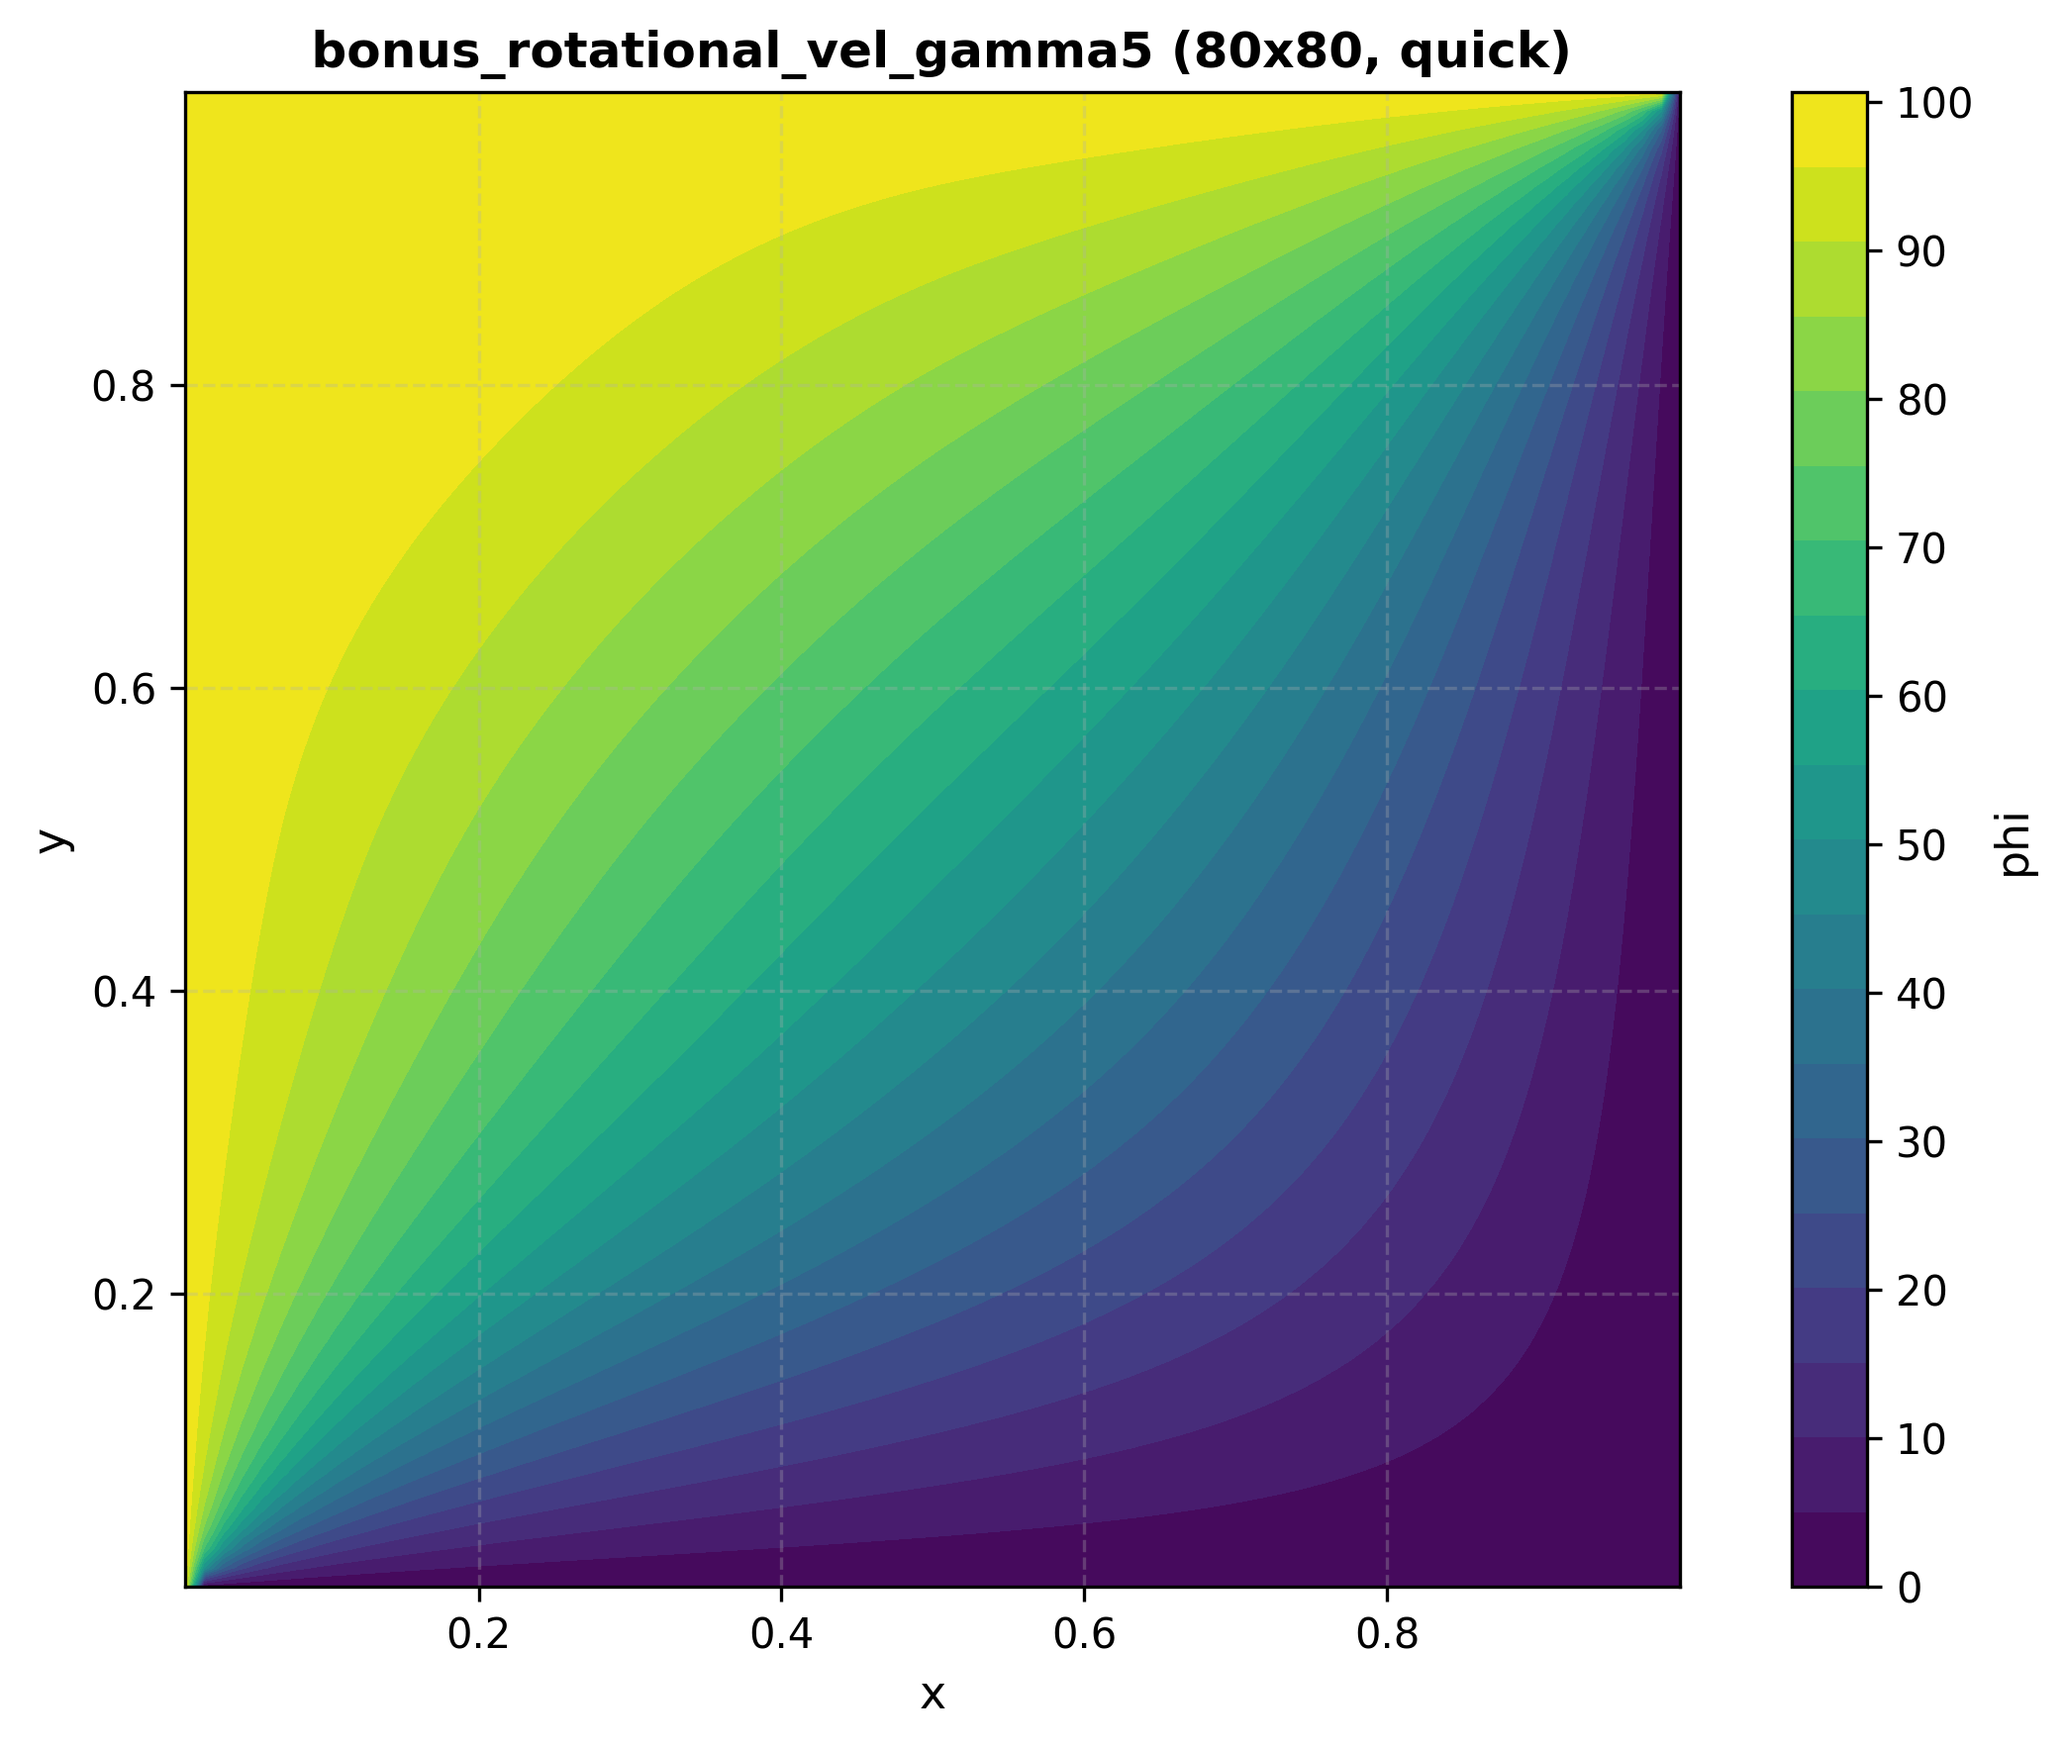
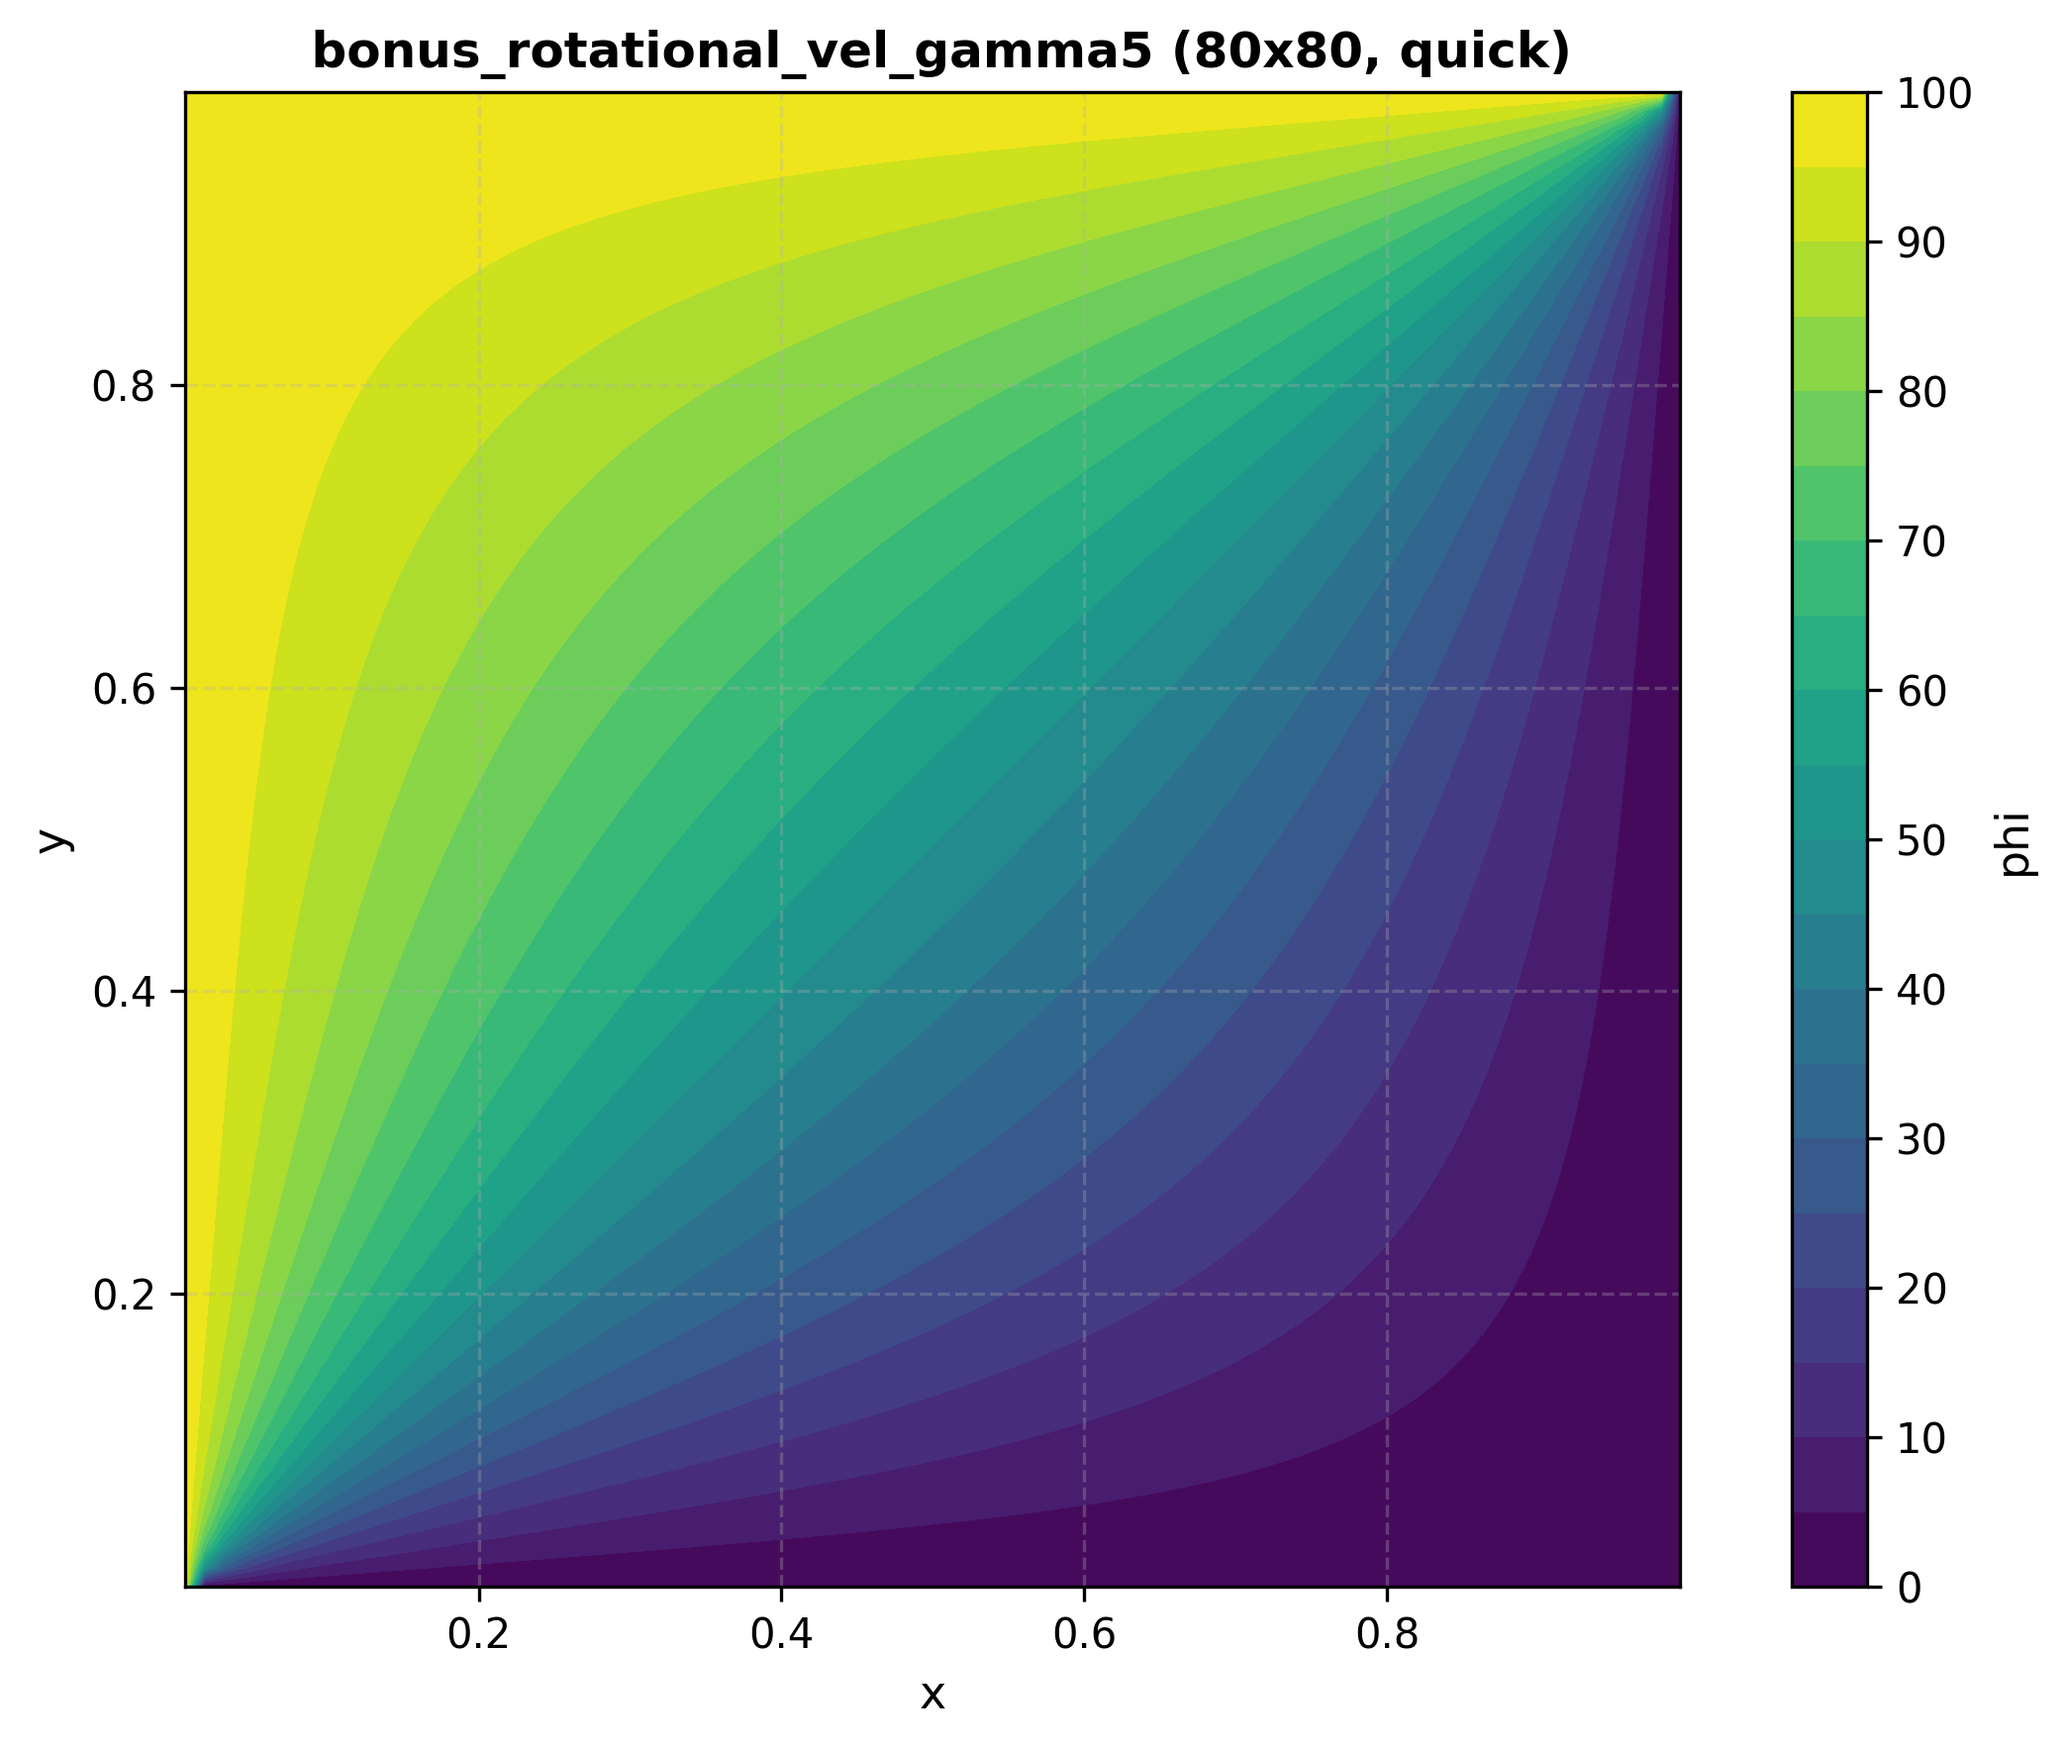
Trying to debug my upwind in part 2

diff --git a/Assignment3.py b/Assignment3.py
@@ -162,7 +162,8 @@ def assemble_system(nx, ny, ux_func, uy_func, scheme, gamma):
                 # East face: flux = ux_e * phi_upwind
                 if ux_e > 0:
                     # Flow from P to E, use phi_P
-                    aP -= ux_e / dx
+                    #aP -= ux_e / dx
+                    aP += ux_e / dx
                 else:
                     # Flow from E to P, use phi_E
                     rows.append(p)
@@ -173,14 +174,16 @@ def assemble_system(nx, ny, ux_func, uy_func, scheme, gamma):
                     # Flow from W to P, use phi_W
                     rows.append(p)
                     cols.append(index(i-1,j,nx))
-                    data.append(ux_w / dx)
+                    #data.append(ux_w / dx)
+                    data.append(-ux_w / dx)
                 else:
                     # Flow from P to W, use phi_P
                     aP += ux_w / dx
                 # North face: flux = uy_n*phi_upwind
                 if uy_n > 0:
                     # Flow from P to N, use phi_P
-                    aP -= uy_n / dy
+                    #aP -= uy_n / dy
+                    aP += uy_n / dy
                 else:
                     # Flow from N to P, use phi_N
                     rows.append(p)
@@ -191,7 +194,8 @@ def assemble_system(nx, ny, ux_func, uy_func, scheme, gamma):
                     # Flow from S to P, use phi_S
                     rows.append(p)
                     cols.append(index(i,j+1,nx))
-                    data.append(uy_s/dy)
+                    #data.append(uy_s/dy)
+                    data.append(-uy_s / dy)
                 else:
                     # Flow from P to S, use phi_P
                     aP += uy_s/dy
@@ -203,7 +207,8 @@ def assemble_system(nx, ny, ux_func, uy_func, scheme, gamma):
                 # East face: flux = ux_e * phi_upwind
                 if ux_e > 0:
                     # Flow from P to E, use phi_P
-                    aP -= ux_e / dx
+                    # aP -= ux_e / dx
+                    aP += ux_e / dx
                 else:
                     # Flow from E to P, use phi_E
                     rows.append(p)
@@ -214,14 +219,16 @@ def assemble_system(nx, ny, ux_func, uy_func, scheme, gamma):
                     # Flow from W to P, use phi_W
                     rows.append(p)
                     cols.append(index(i - 1, j, nx))
-                    data.append(ux_w / dx)
+                    # data.append(ux_w / dx)
+                    data.append(-ux_w / dx)
                 else:
                     # Flow from P to W, use phi_P
                     aP += ux_w / dx
                 # North face: flux = uy_n*phi_upwind
                 if uy_n > 0:
                     # Flow from P to N, use phi_P
-                    aP -= uy_n / dy
+                    #aP -= uy_n / dy
+                    aP += uy_n / dy
                 else:
                     # Flow from N to P, use phi_N
                     rows.append(p)
@@ -232,152 +239,11 @@ def assemble_system(nx, ny, ux_func, uy_func, scheme, gamma):
                     # Flow from S to P, use phi_S
                     rows.append(p)
                     cols.append(index(i, j + 1, nx))
-                    data.append(uy_s / dy)
+                    #data.append(uy_s / dy)
+                    data.append(-uy_s / dy)
                 else:
                     # Flow from P to S, use phi_P
                     aP += uy_s / dy
-
-                # Now implement standard QUICK
-                # x-direction
-                # East face
-                if ux_e > 0:
-                    # Flow from P to E, reconstruction point is P
-                    if i >= 1:
-                        rows.append(p)
-                        cols.append(index(i-1, j, nx))
-                        data.append(ux_e / (8.0 * dx)) # -1/8 from phi_W
-                        aP -= (6.0 * ux_e) / (8.0 * dx)  # 6/8 from phi_P
-                        rows.append(p)
-                        cols.append(index(i+1, j, nx))
-                        data.append((3.0 * -ux_e) / (8.0 * dx)) # 3.8 from phi_E
-                    else:
-                        aP -= ux_e / dx # Boundary Handling, use upwind. Easier, ensures non-negative contributions
-                else:
-                    # Flow from E to P, reconstruction point is E
-                    if i <= nx - 2:
-                        rows.append(p)
-                        cols.append(index(i+1, j, nx))
-                        data.append((-6.0 * ux_e) / (8.0 * dx)) # 6/8 from phi_E
-                        aP += (3.0 * ux_e) / (8.0 * dx) # 3/8 from phi_P
-                        if i <= nx - 3:
-                            # if far enough from boundary, can maintain third-order accuracy
-                            rows.append(p)
-                            cols.append(index(i+2, j, nx))
-                            data.append(ux_e / (8.0 * dx)) # -1/8 from phi_EE
-                        else:
-                            # Else adjust to second-order for that one node
-                            rows.append(p)
-                            cols.append(index(i+1, j, nx))
-                            data.append((-3.0 * ux_e) / (8.0 * dx))
-                    else:
-                        # Too close to boundary, use upwind
-                        rows.append(p)
-                        cols.append(index(i+1, j, nx))
-                        data.append(-ux_e / dx)
-
-                # West face
-                if ux_w > 0:
-                    # Flow from W to P, reconstruction point is W
-                    if i >= 2:
-                        # Far enough from boundary, use QUICK
-                        rows.append(p)
-                        cols.append(index(i-1, j, nx))
-                        data.append((6.0 * ux_w) / (8.0 * dx)) # 6/8 from phi_W
-                        aP -= (3.0 * ux_w) / (8.0 * dx) # 3/8 from phi_P
-                        rows.append(p)
-                        cols.append(index(i-2, j, nx))
-                        data.append(-ux_w / (8.0 * dx)) # -1/8 from phi_WW
-                    else:
-                        # Too close to boundary, fall back to upwind
-                        rows.append(p)
-                        cols.append(index(i-1, j, nx))
-                        data.append(ux_w / dx)
-                else:
-                    # Flow from P to W, reconstruction point is P
-                    if i >= 1:
-                        aP += ux_w * 6.0 / (8.0 * dx) # 6/8 from phi_P
-                        rows.append(p)
-                        cols.append(index(i-1, j, nx))
-                        data.append((-3.0 * ux_w) / (8.0 * dx)) # 3/8 from phi_W
-
-                        if i <= nx-2:
-                            rows.append(p)
-                            cols.append(index(i+1, j, nx))
-                            data.append(ux_w / (8.0 * dx)) # -1/8 from phi_E
-                        else:
-                            rows.append(p)
-                            cols.append(index(i-1, j, nx))
-                            data.append((-3.0 * ux_w) / (8.0 * dx))
-                    else:
-                        aP += ux_w / dx
-
-                # y-direction
-                # North Face
-                if uy_n > 0:
-                    # Flow from P to N, reconstruction point is P
-                    if j >= 1:
-                        rows.append(p)
-                        cols.append(index(i, j-1, nx))
-                        data.append(uy_n / (8.0 * dy)) # -1/8 from phi_S
-                        aP -= (6.0 * uy_n) / (8.0 * dy) # 6/8 from phi_P
-                        rows.append(p)
-                        cols.append(index(i, j+1, nx))
-                        data.append((-3.0 * uy_n) / (8.0 * dy))
-                    else: # Too close to boundary
-                        aP -= uy_n / dy
-                else:
-                    # From from N to P, reconstruction point is N
-                    if j <= ny-2:
-                        rows.append(p)
-                        cols.append(index(i, j+1, nx))
-                        data.append((-6.0 * uy_n) / (8.0 * dy)) # 6/8 from phi_N
-                        aP += (3.0 * uy_n) / (8.0 * dy)
-                        if j <= ny - 3: # too close to boundary, cannot use NN accurately
-                            rows.append(p)
-                            cols.append(index(i, j+2, nx))
-                            data.append(uy_n / (8.0 * dy)) # -1/8 from phi_NN
-                        else:
-                            rows.append(p)
-                            cols.append(index(i, j+1, nx))
-                            data.append((-3.0 * uy_n) / (8.0 * dy))
-                    else:
-                        # Use upwind when too close to the boundary
-                        rows.append(p)
-                        cols.append(index(i, j+1, nx))
-                        data.append(-uy_n / dy)
-                if uy_s > 0:
-                    # Flow from S to P, reconstruction point is S
-                    if j >= 2:
-                        rows.append(p)
-                        cols.append(index(i, j-1, nx))
-                        data.append((6.0 * uy_s) / (8.0 * dy)) # 6/8 from phi_S
-                        aP -= (3.0 * uy_s) / (8.0 * dy) # 3/8 from phi_P
-                        rows.append(p)
-                        cols.append(index(i, j-2, nx))
-                        data.append(-uy_s / (8.0 * dy)) # from -1/8 from phi_SS
-                    else:
-                        rows.append(p)
-                        cols.append(index(i, j-1, nx))
-                        data.append(uy_s / dy)
-                else:
-                    # Flow from P to S, reconstruction point is P
-                    if j >= 1:
-                        aP += (6.0 * uy_s) / (8.0 * dy) # 6/8 from phi_P
-                        rows.append(p)
-                        cols.append(index(i, j-1, nx))
-                        data.append((-3.0 * uy_s) / (8.0 * dy)) # 3/8 from phi_S
-
-                        if j <= ny - 2:
-                            rows.append(p)
-                            cols.append(index(i, j+1, nx))
-                            data.append(uy_s / (8.0 * dy)) # -1/8 from phi_N
-                        else:
-                            # Adjust near boundary
-                            rows.append(p)
-                            cols.append(index(i, j-1, nx))
-                            data.append((-3.0 * uy_s) / (8.0 * dy))
-                    else:
-                        aP += uy_s / dy
 
             # Add diagonal coefficient
             rows.append(p)
@@ -674,11 +540,26 @@ def run_case(nx, ny, ux, uy, scheme, savedir, case, gamma):
     print(f"Running {case}: {nx}x{ny} grid, {scheme} scheme...")
     os.makedirs(savedir, exist_ok=True)
 
-    A, b, xc, yc = assemble_system(nx, ny, ux, uy, scheme, gamma)
-    phi_vec = solve_system(A, b)
-    phi = phi_to_grid(phi_vec, nx, ny)
+    if scheme == 'quick':
+        # solve quick with the dedicated iterative solver
+        xc, yc, phi, n_iter = solve_with_quick_iterations(nx, ny, ux, uy, gamma)
+        # Compute the residual value, and make the new A, b matrices for order of convergence calculations
+        A, b_base, _, _ = assemble_system(nx, ny, ux, uy, scheme, gamma)
+        x, y = np.meshgrid(xc, yc)
+        ux_grid = ux_func(x,y)
+        uy_grid = uy_func(x,y)
+        dx = Lx / nx
+        dy = Ly / ny
+        correction = compute_quick_correction(phi, nx, ny, dx, dy, ux_grid, uy_grid)
+        b = b_base + correction
+        phi_vec = phi.ravel()
+        residual = np.linalg.norm(A @ phi_vec - b)
+    else:
+        A, b, xc, yc = assemble_system(nx, ny, ux, uy, scheme, gamma)
+        phi_vec = solve_system(A, b)
+        phi = phi_to_grid(phi_vec, nx, ny)
+        residual = np.linalg.norm (A @ phi_vec - b)
 
-    residual = np.linalg.norm (A @ phi_vec - b)
     print (f" Residual: {residual:.3e}")
     print (f" Solution Range:  [{phi.min():.4f}, {phi.max():.4f}]")
 
@@ -741,9 +622,11 @@ if __name__ == "__main__":
     nx, ny = 160, 160
     xc_c, yc_c, phi_c = run_case(nx, ny, ux_func, uy_func, 'central', savedir=savedir,case=case, gamma=gamma)
     s_c, phi_diag_c = extract_diagonal_profile(xc_c, yc_c, phi_c, nx, ny)
+    #plot_vel_field(xc_c, yc_c, ux_func, uy_func, savedir, case, 'central', nx, ny)
 
     xc_u, yc_u, phi_u = run_case(nx, ny, ux_func, uy_func, 'upwind', savedir=savedir, case=case, gamma=gamma)
     s_u, phi_diag_u = extract_diagonal_profile(xc_u, yc_u, phi_u, nx, ny)
+    #plot_vel_field(xc_u, yc_u, ux_func, uy_func, savedir, case, 'upwind', nx, ny)
 
     plot_comparison(s_c, phi_diag_c, s_u, phi_diag_u, nx, ny, savedir=savedir, case=case, gamma=gamma)
 
